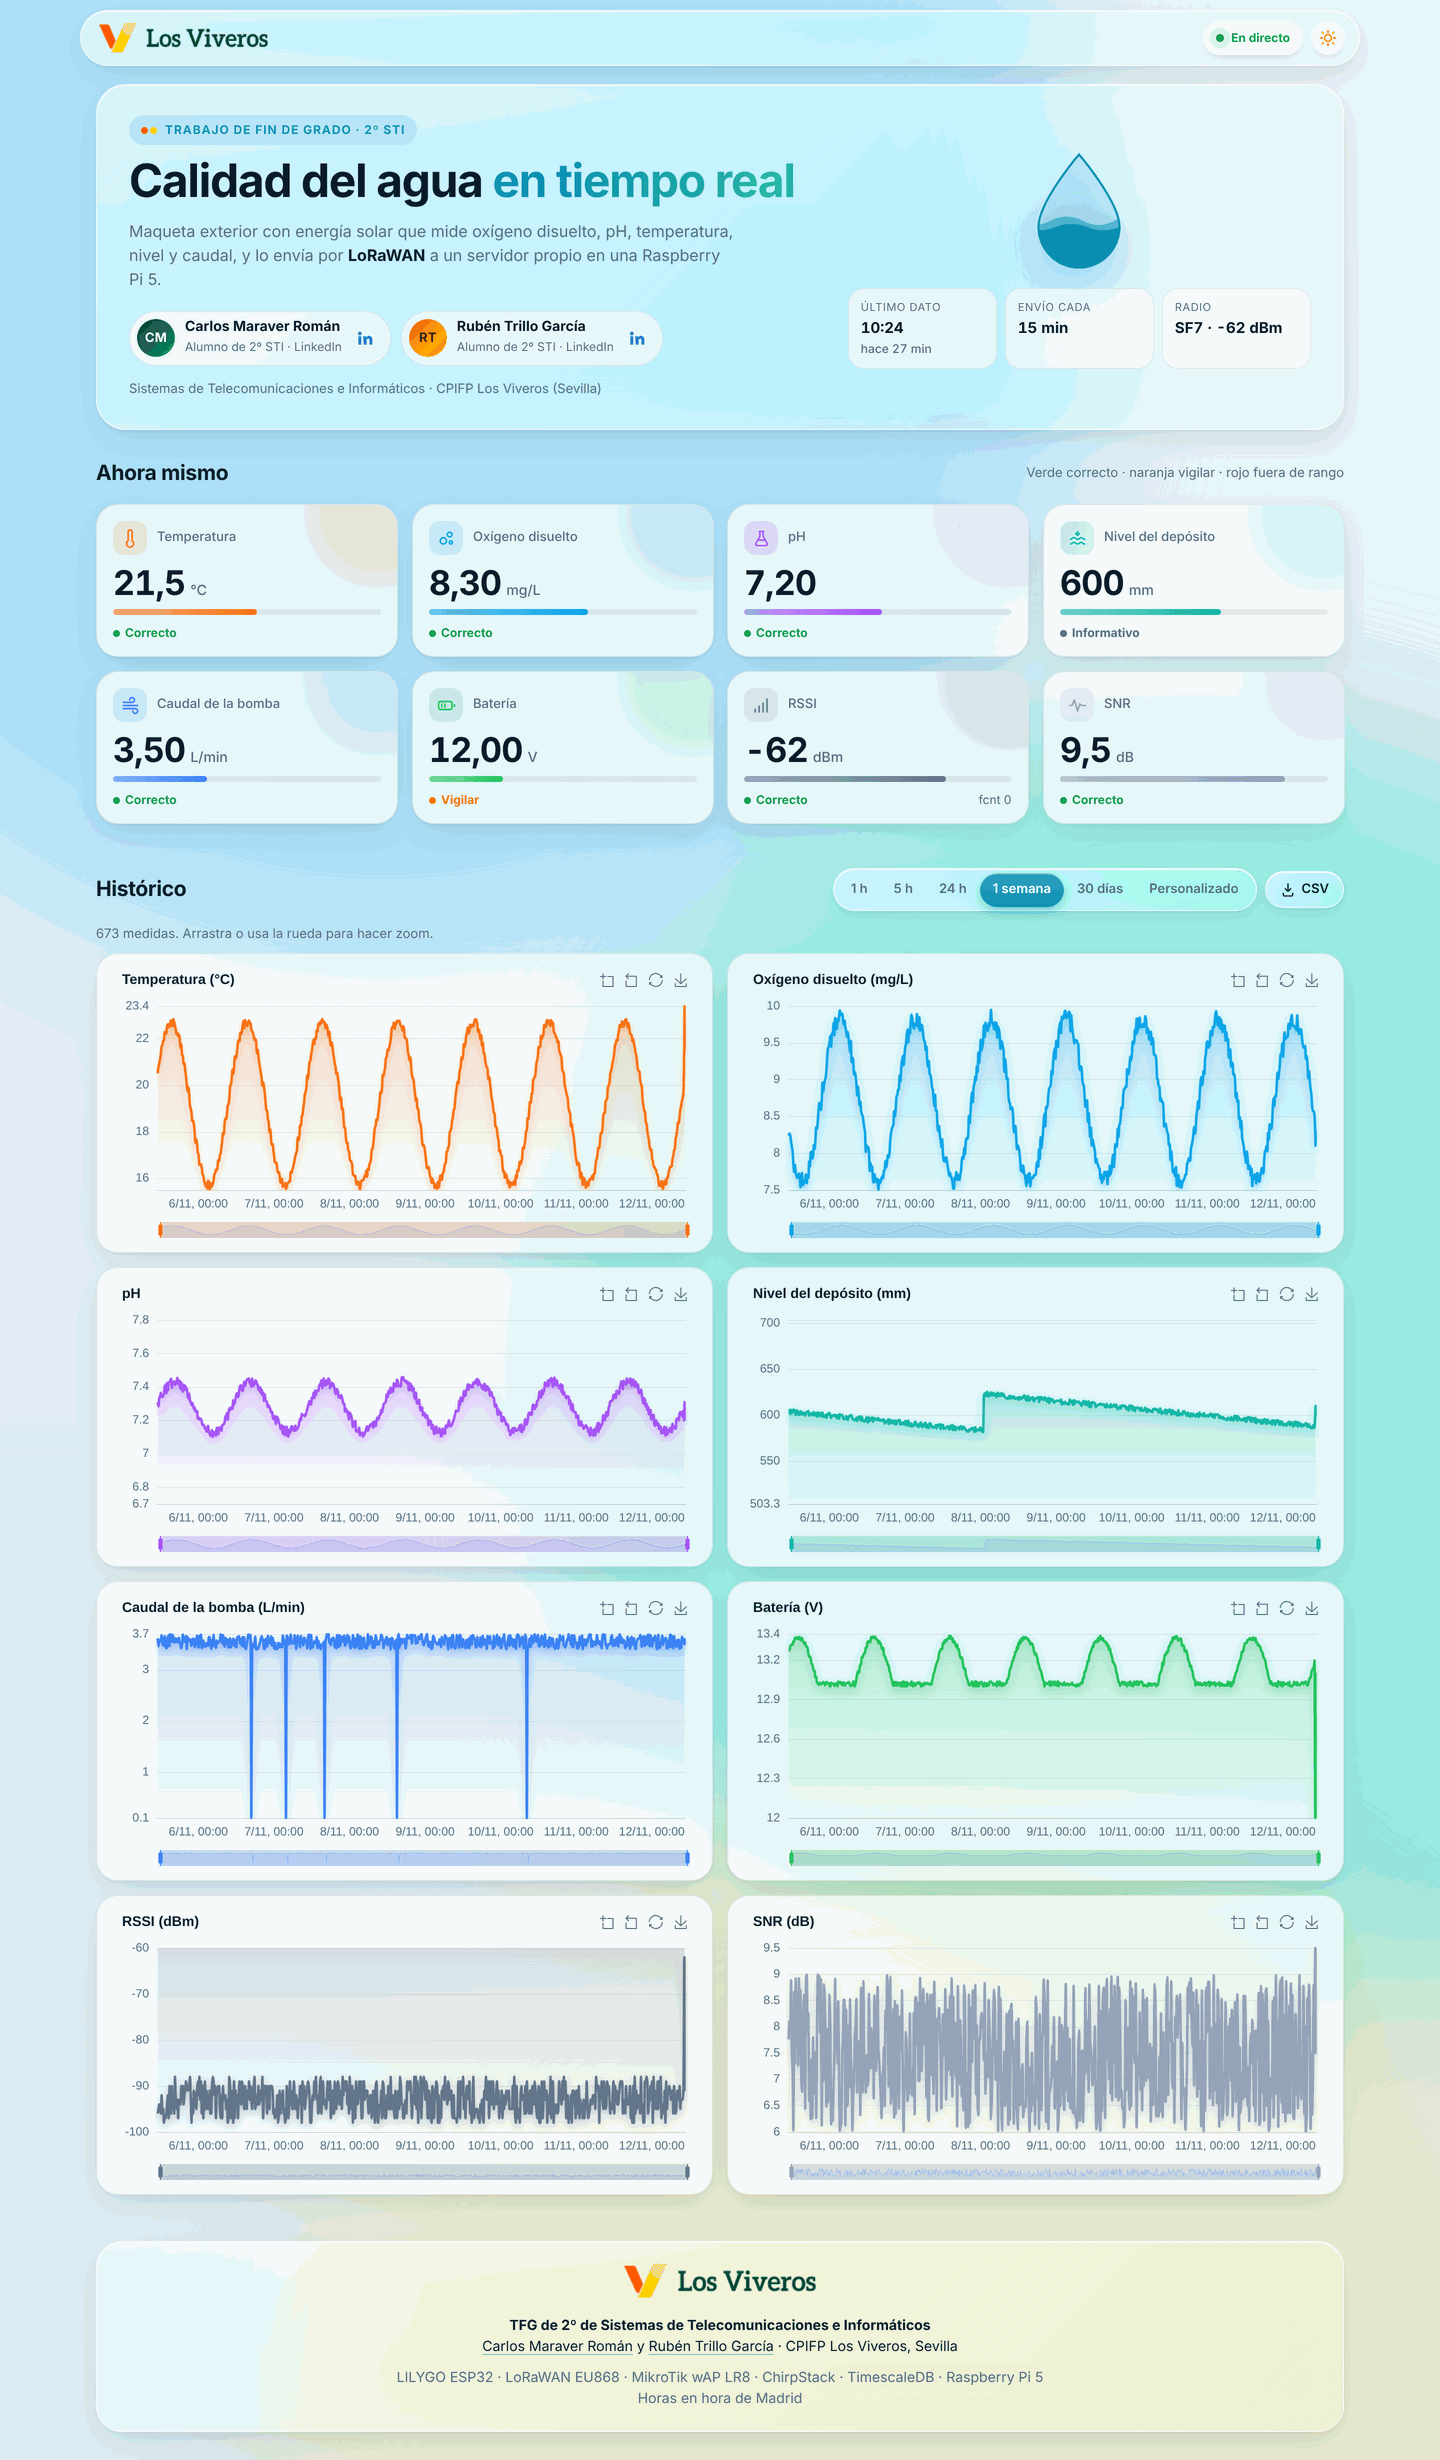
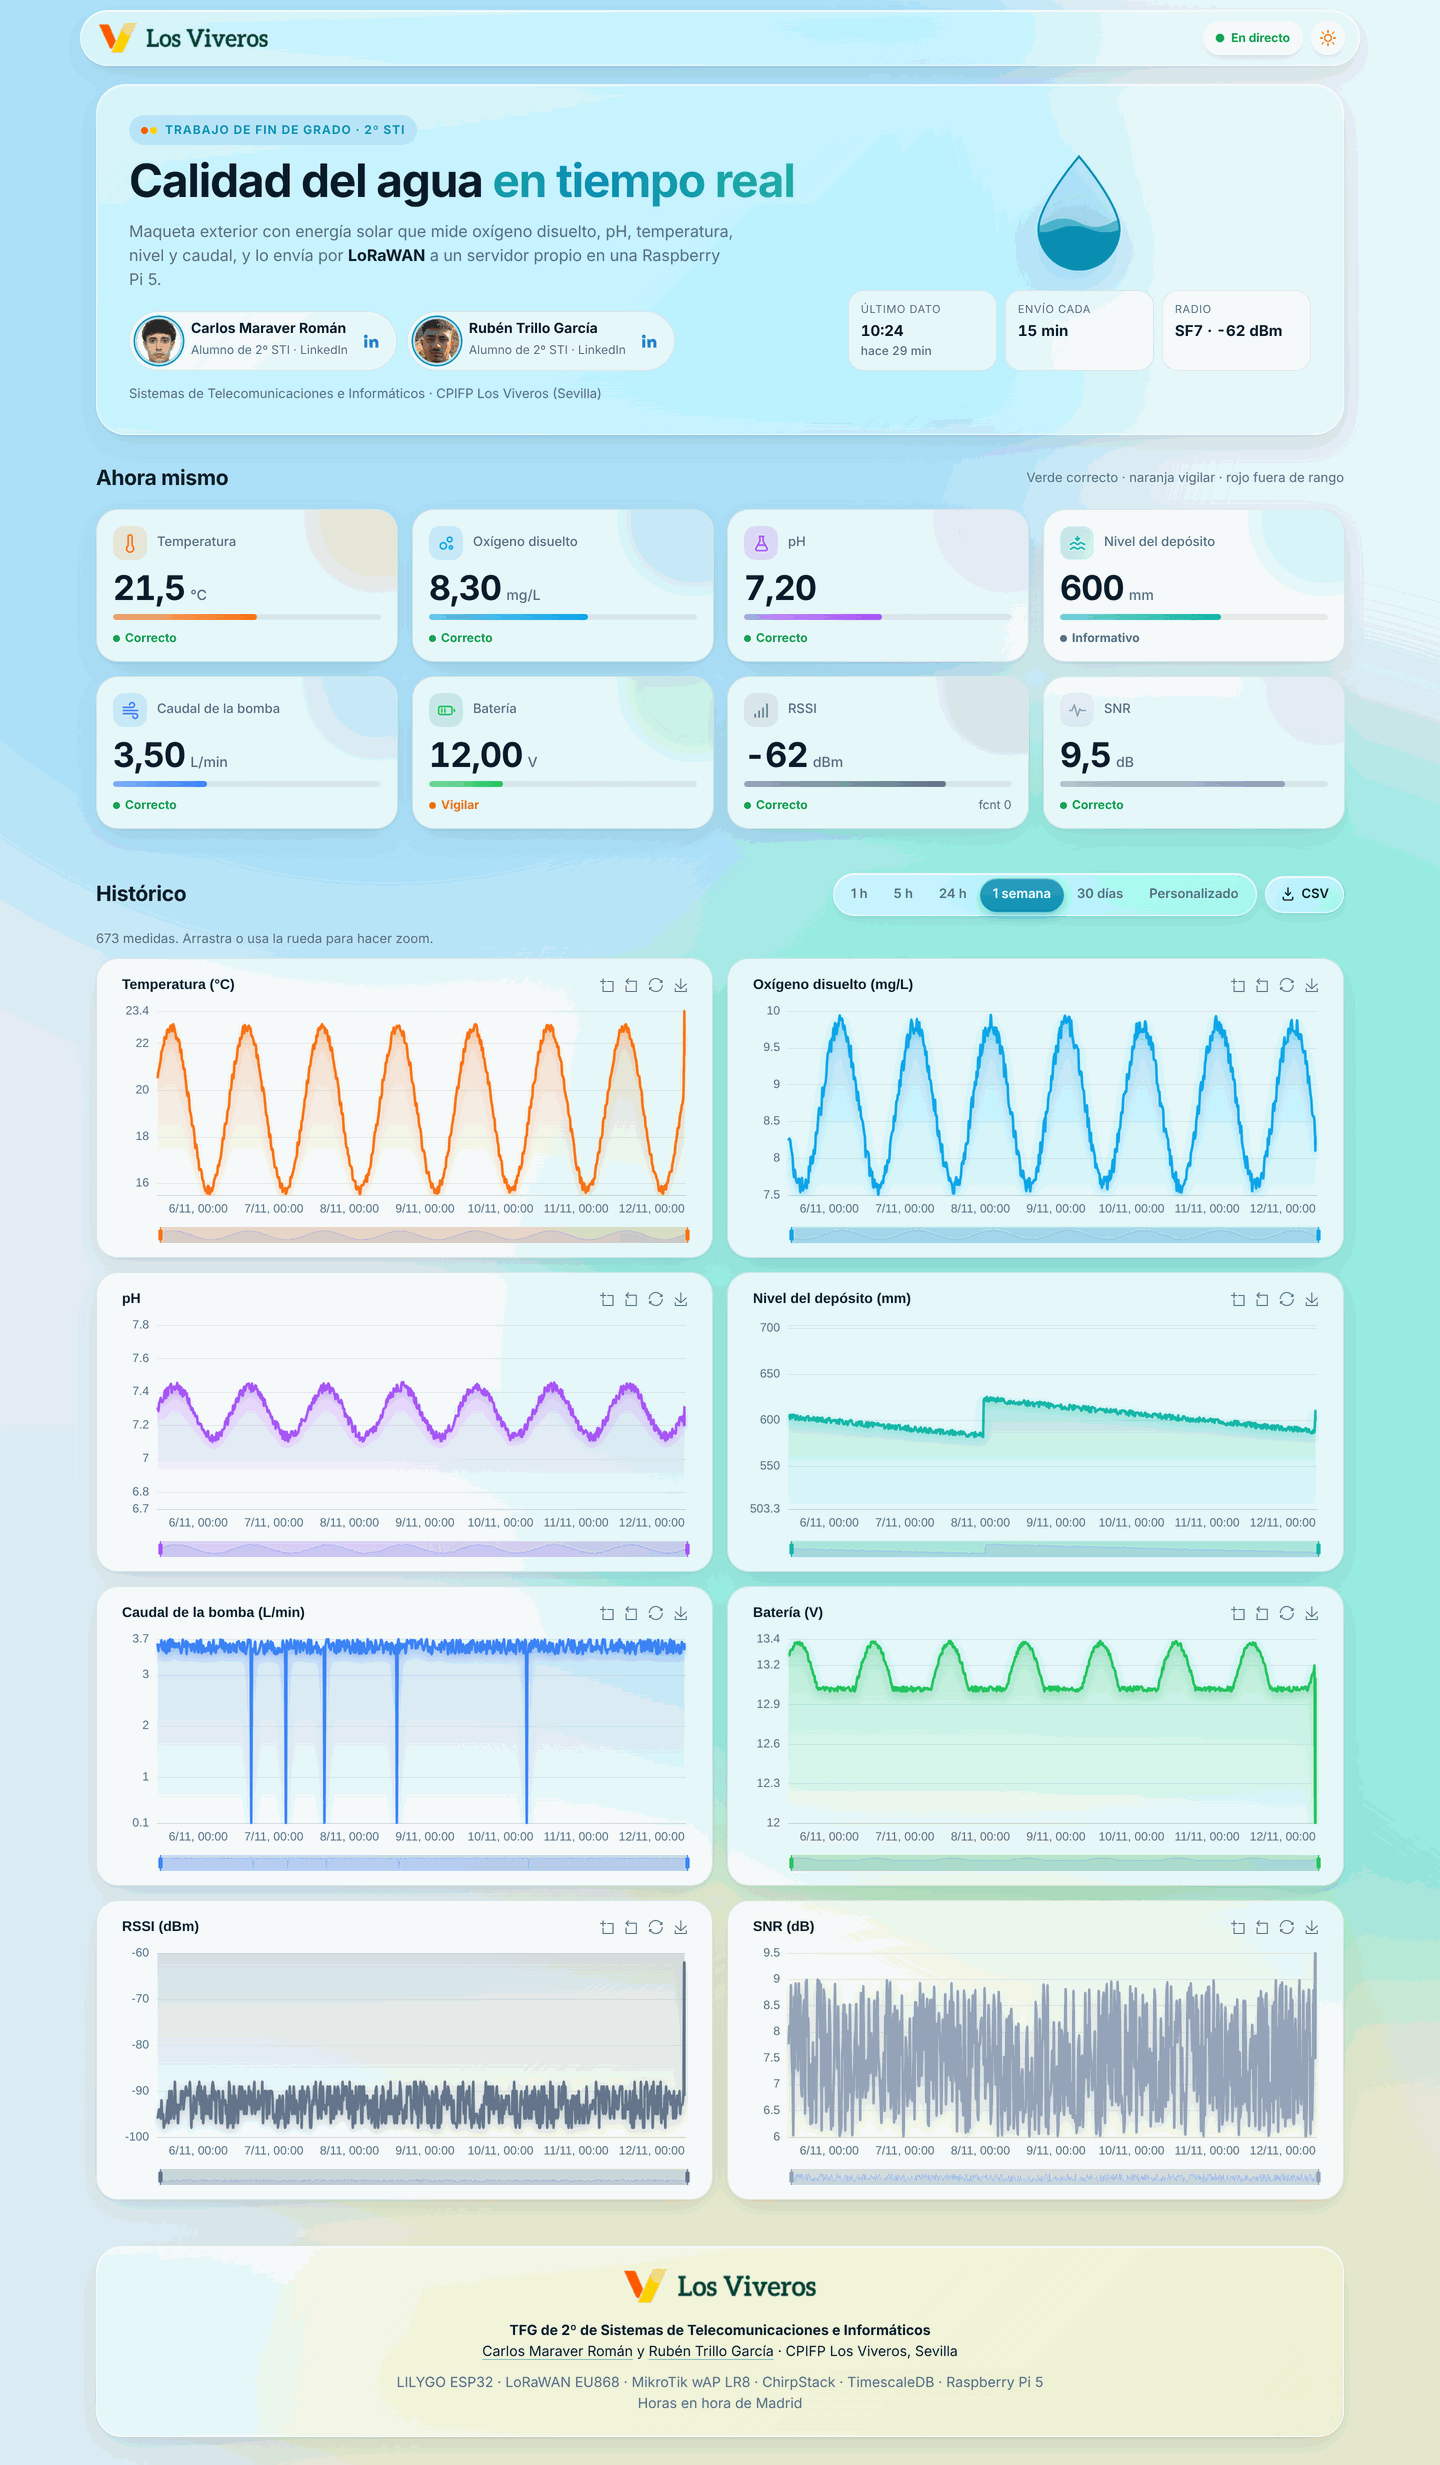
Web: fotos de perfil de Carlos y Rubén en la portada
Claude-Session: https://claude.ai/code/session_01D9udZhUNXsRqy8rDTUC1oa

diff --git a/raspberry/web/static/index.html b/raspberry/web/static/index.html
@@ -52,9 +52,9 @@
           y lo envía por <strong>LoRaWAN</strong> a un servidor propio en una Raspberry Pi 5.</p>
         <div class="autores">
           <a class="autor" href="https://www.linkedin.com/in/carlosmaravv" target="_blank" rel="noopener" title="LinkedIn de Carlos Maraver Román">
-            <span class="avatar">CM</span><div><b>Carlos Maraver Román</b><small>Alumno de 2º STI · LinkedIn</small></div><svg class="in" viewBox="0 0 24 24" aria-hidden="true"><path d="M4.98 3.5a2.5 2.5 0 1 1 0 5 2.5 2.5 0 0 1 0-5zM3 9.5h4V21H3zM9.5 9.5h3.8v1.6h.06c.53-1 1.83-2.06 3.77-2.06 4.03 0 4.77 2.65 4.77 6.1V21h-4v-5.1c0-1.22-.02-2.78-1.7-2.78-1.7 0-1.96 1.33-1.96 2.7V21h-4z"/></svg></a>
+            <span class="avatar">CM<img src="/static/foto-carlos.jpg" alt="" width="76" height="76" onerror="this.remove()"></span><div><b>Carlos Maraver Román</b><small>Alumno de 2º STI · LinkedIn</small></div><svg class="in" viewBox="0 0 24 24" aria-hidden="true"><path d="M4.98 3.5a2.5 2.5 0 1 1 0 5 2.5 2.5 0 0 1 0-5zM3 9.5h4V21H3zM9.5 9.5h3.8v1.6h.06c.53-1 1.83-2.06 3.77-2.06 4.03 0 4.77 2.65 4.77 6.1V21h-4v-5.1c0-1.22-.02-2.78-1.7-2.78-1.7 0-1.96 1.33-1.96 2.7V21h-4z"/></svg></a>
           <a class="autor" href="https://www.linkedin.com/in/ruben-trillo-garcia-755830384" target="_blank" rel="noopener" title="LinkedIn de Rubén Trillo García">
-            <span class="avatar a2">RT</span><div><b>Rubén Trillo García</b><small>Alumno de 2º STI · LinkedIn</small></div><svg class="in" viewBox="0 0 24 24" aria-hidden="true"><path d="M4.98 3.5a2.5 2.5 0 1 1 0 5 2.5 2.5 0 0 1 0-5zM3 9.5h4V21H3zM9.5 9.5h3.8v1.6h.06c.53-1 1.83-2.06 3.77-2.06 4.03 0 4.77 2.65 4.77 6.1V21h-4v-5.1c0-1.22-.02-2.78-1.7-2.78-1.7 0-1.96 1.33-1.96 2.7V21h-4z"/></svg></a>
+            <span class="avatar a2">RT<img src="/static/foto-ruben.jpg" alt="" width="76" height="76" onerror="this.remove()"></span><div><b>Rubén Trillo García</b><small>Alumno de 2º STI · LinkedIn</small></div><svg class="in" viewBox="0 0 24 24" aria-hidden="true"><path d="M4.98 3.5a2.5 2.5 0 1 1 0 5 2.5 2.5 0 0 1 0-5zM3 9.5h4V21H3zM9.5 9.5h3.8v1.6h.06c.53-1 1.83-2.06 3.77-2.06 4.03 0 4.77 2.65 4.77 6.1V21h-4v-5.1c0-1.22-.02-2.78-1.7-2.78-1.7 0-1.96 1.33-1.96 2.7V21h-4z"/></svg></a>
         </div>
         <p class="centro">Sistemas de Telecomunicaciones e Informáticos · CPIFP Los Viveros (Sevilla)</p>
       </div>

diff --git a/raspberry/web/static/estilo.css b/raspberry/web/static/estilo.css
@@ -165,7 +165,7 @@ main { max-width: 1280px; margin: 0 auto; padding: 18px 16px 8px; }
 .autor b { display: block; font-size: 14px; line-height: 1.2; }
 .autor small { color: var(--tenue); font-size: 12px; }
 .avatar {
-  display: grid; place-items: center; width: 38px; height: 38px; border-radius: 50%; flex: none;
+  display: grid; place-items: center; width: 44px; height: 44px; border-radius: 50%; flex: none;
   font-size: 13px; font-weight: 750; color: #fff; letter-spacing: .02em;
   background: linear-gradient(135deg, var(--verde-viveros), #0a8f6b);
 }
@@ -381,3 +381,8 @@ a.autor:hover .in { opacity: 1; }
 .pie-caja a { color: inherit; text-decoration-color: color-mix(in srgb, var(--acento) 50%, transparent); text-underline-offset: 3px; }
 .pie-caja a:hover { color: var(--acento); }
 .selector[hidden] { display: none; }
+/* Foto de perfil encima de las iniciales; si el fichero no existe se borra la <img> y quedan las iniciales */
+.avatar { position: relative; overflow: hidden; }
+.avatar img { position: absolute; inset: 0; width: 100%; height: 100%; object-fit: cover; border-radius: 50%;
+  box-shadow: inset 0 0 0 2px rgba(255, 255, 255, .7); }
+.avatar:has(img) { box-shadow: 0 0 0 2px var(--panel), 0 0 0 3.5px var(--acento); }

diff --git a/raspberry/README.md b/raspberry/README.md
@@ -189,7 +189,8 @@ Borrar después los datos de prueba: `DELETE FROM medidas WHERE dev_eui='0000000
 Qué tiene la página:
 - **Cabecera** fija con el logo del CPIFP Los Viveros, si llegan datos en directo y el botón de modo claro/oscuro.
   El selector de nodo solo aparece si hay más de un nodo dado de alta (ahora solo está la maqueta).
-- **Portada** del TFG (2º STI, Carlos Maraver Román y Rubén Trillo García, con enlace a sus LinkedIn) con la hora del último dato y la radio (SF y RSSI).
+- **Portada** del TFG (2º STI, Carlos Maraver Román y Rubén Trillo García, con su foto y enlace a su LinkedIn;
+  fotos en `web/static/foto-carlos.jpg` y `foto-ruben.jpg`, si falta una se ven las iniciales) con la hora del último dato y la radio (SF y RSSI).
 - **Ahora mismo**: una tarjeta por variable con icono, valor animado, barrita y estado (correcto, vigilar o fuera de rango).
   Cuando llega un uplink la tarjeta da un destello y el número cuenta hasta el valor nuevo.
 - **Histórico**: rangos de 1 h, 5 h, 24 h, 1 semana y 30 días, más fechas a elegir y descarga en CSV.
